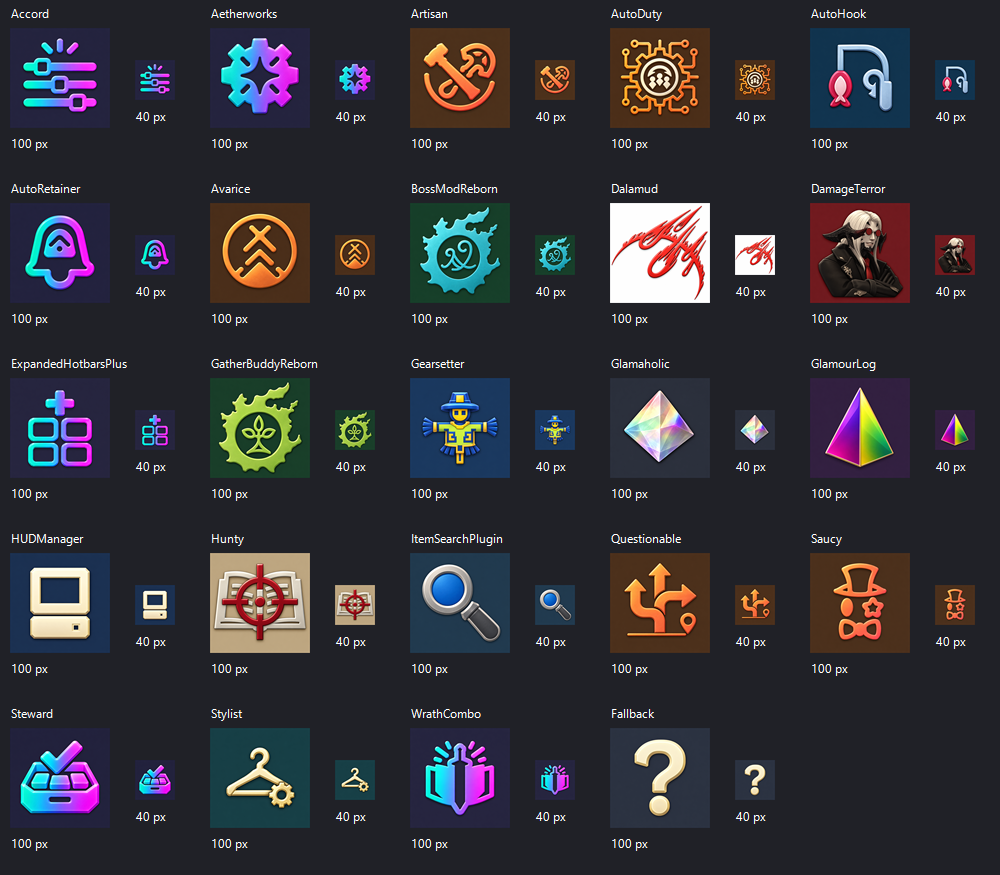
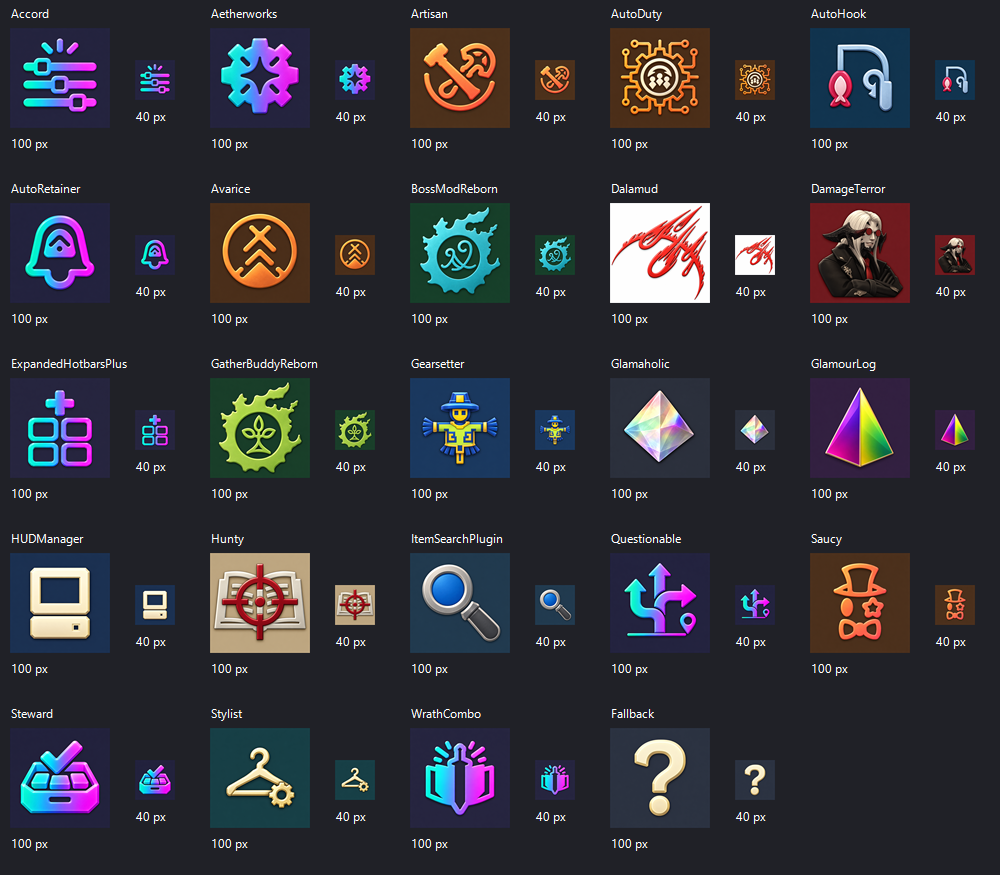
Match Questionable hotbar artwork to the Kaldigo fork

Changed region(s): [[0.589, 0.6171, 0.775, 0.7714]]

diff --git a/ExpandedHotbars/images/plugin-overrides/CREDITS.md b/ExpandedHotbars/images/plugin-overrides/CREDITS.md
@@ -21,7 +21,7 @@ These replacement renderings were generated with the built-in image generator fr
 | GlamourLog | [Repository](https://github.com/Jaksuhn/ffxiv_glamourlog) | [Original icon](https://puni.sh/api/plugins/icon/136) | AGPL-3.0 |
 | HUDManager | [Repository](https://github.com/zacharied/FFXIV-Plugin-HudManager) | [Original icon](https://raw.githubusercontent.com/goatcorp/PluginDistD17/main/testing-live/HUDManager/images/icon.png) | Not specified |
 | Hunty | [Repository](https://github.com/Infiziert90/Hunty) | [Original icon](https://raw.githubusercontent.com/goatcorp/PluginDistD17/main/testing-live/Hunty/images/icon.png) | MIT |
-| Questionable | [Repository](https://github.com/PunishXIV/Questionable) | [Original icon](https://puni.sh/api/plugins/icon/94) | AGPL-3.0 |
+| Questionable | [Kaldigo fork](https://github.com/kaldigo/Questionable) | [Fork icon](https://raw.githubusercontent.com/kaldigo/Questionable/new-main/assets/icon.png), based on the [upstream emblem](https://github.com/PunishXIV/Questionable) | AGPL-3.0 |
 | Saucy | [Repository](https://github.com/PunishXIV/Saucy) | [Original icon](https://raw.githubusercontent.com/PunishXIV/Saucy/HEAD/Saucy/Icon.png) | BSD-3-Clause |
 | WrathCombo | [Repository](https://github.com/kaldigo/WrathCombo) | [Original icon](https://raw.githubusercontent.com/kaldigo/WrathCombo/main/assets/icon.png) | BSD-3-Clause |
 

diff --git a/README.md b/README.md
@@ -235,6 +235,7 @@ were created with the built-in image generator using the original plugin icons a
 a style reference sheet extracted locally from the game; the game reference sheet
 is not redistributed in this repository.
 
-The Kaldigo icon family includes the AutoRetainer fork bell and a distinct Steward
-inventory/checkmark emblem. Hotbar overrides still resolve by internal plugin name;
-AutoRetainer retains its shared identity and uses the Kaldigo artwork in this set.
+The Kaldigo icon family includes the AutoRetainer fork bell, Questionable's branching
+route arrows and a distinct Steward inventory/checkmark emblem. Hotbar overrides
+still resolve by internal plugin name; AutoRetainer and Questionable retain their
+shared identities and use the Kaldigo artwork in this set.
